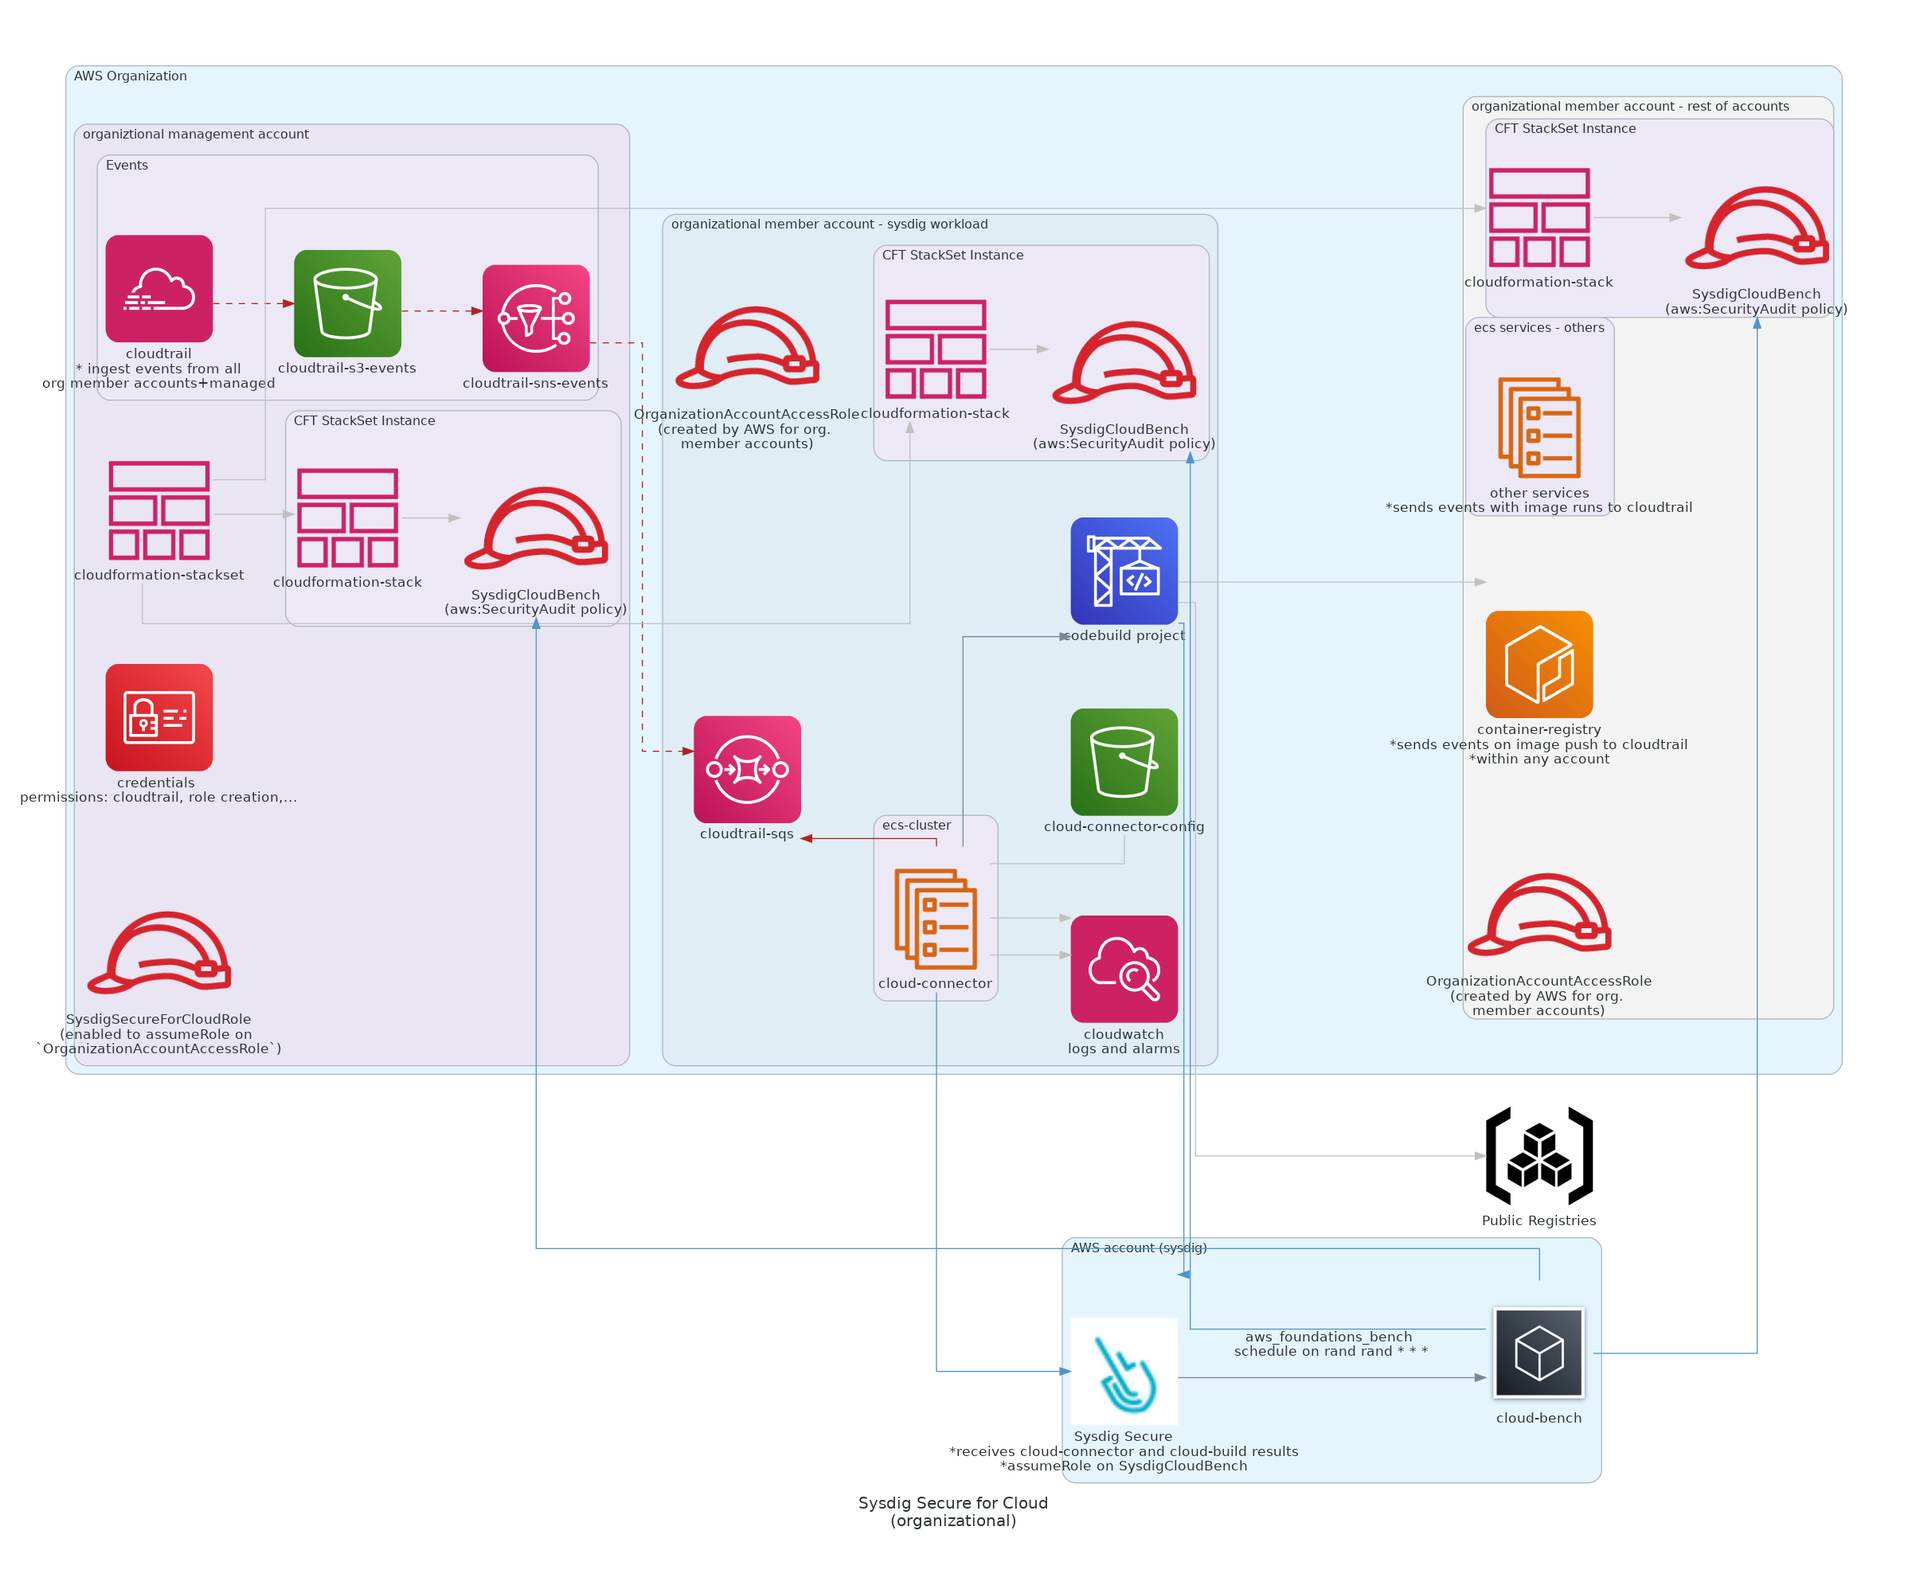
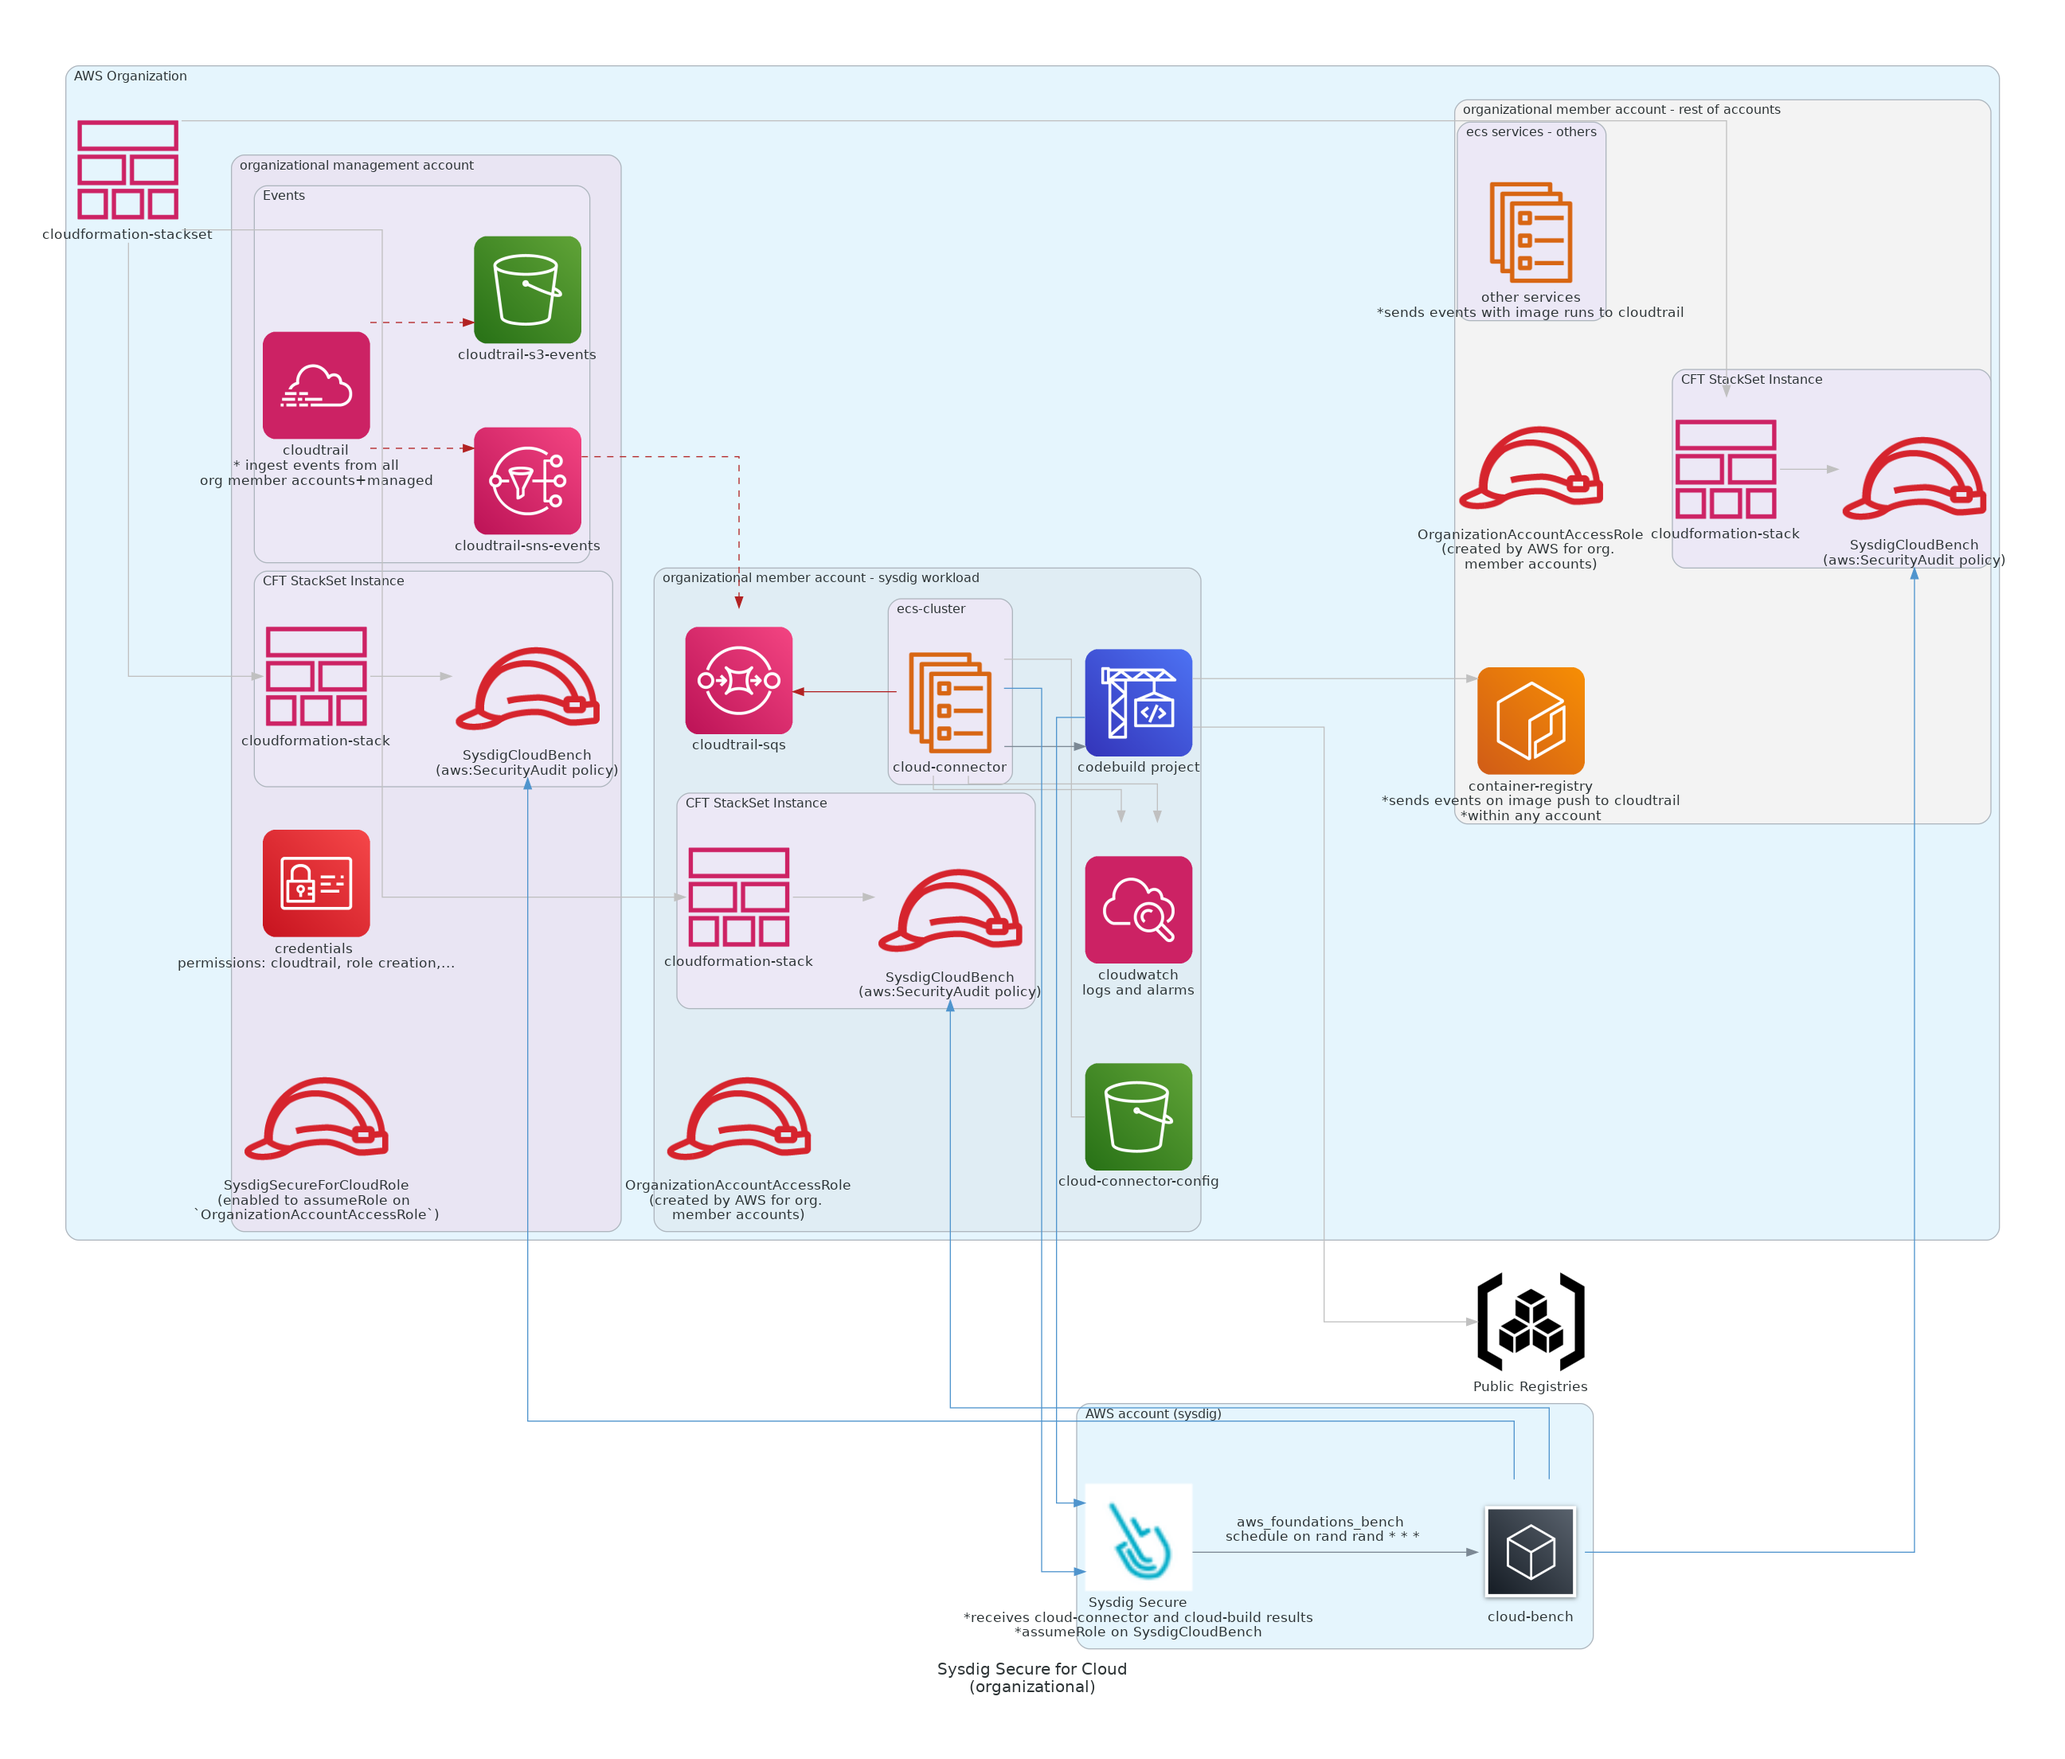
docs: diag min changes

diff --git a/examples/organizational/diagram-org.py b/examples/organizational/diagram-org.py
@@ -33,13 +33,13 @@ color_sysdig="#F3F3F3"
 
 
 
-with Diagram("Sysdig Secure for Cloud\n(organizational)", graph_attr=diagram_attr, filename="diagram-org", show=True):
+with Diagram("Sysdig Secure for Cloud\n(organizational)", graph_attr=diagram_attr, filename="diagram-org", show=True, direction="LR"):
 
     public_registries = Custom("Public Registries","../../resources/diag-registry-icon.png")
 
     with Cluster("AWS Organization"):
 
-        with Cluster("organiztional management account", graph_attr={"bgcolor":color_managed}):
+        with Cluster("organizational management account", graph_attr={"bgcolor":color_managed}):
 
             with Cluster("Events"):
                 cloudtrail              = Cloudtrail("cloudtrail\n* ingest events from all\norg member accounts+managed", shape="plaintext")
@@ -50,7 +50,8 @@ with Diagram("Sysdig Secure for Cloud\n(organizational)", graph_attr=diagram_att
             secure_for_cloud_role   = IAMRole("SysdigSecureForCloudRole\n\(enabled to assumeRole on \n`OrganizationAccountAccessRole`)", **role_attr)
 
 
-            cloudtrail >> Edge(color=color_event, style="dashed") >> cloudtrail_s3 >> Edge(color=color_event, style="dashed") >> sns
+            cloudtrail >> Edge(color=color_event, style="dashed") >> cloudtrail_s3
+            cloudtrail >> Edge(color=color_event, style="dashed") >> sns
             # cloudtrail_s3 >> Edge(style="invis") >> cft_stack_set
 
             with Cluster("CFT StackSet Instance"):
@@ -58,27 +59,7 @@ with Diagram("Sysdig Secure for Cloud\n(organizational)", graph_attr=diagram_att
                 cloud_bench_role_3 = IAMRole("SysdigCloudBench\n(aws:SecurityAudit policy)", **role_attr)
                 cft_stack_3 >> Edge(color=color_creates) >> cloud_bench_role_3
 
-            cft_stack_set  = CloudformationStack("cloudformation-stackset")
-            cft_stack_set >> Edge(style="invis") >> cft_stack_3
-            management_credentials >> Edge(style="invis") >> cft_stack_3
-
-
-        with Cluster("organizational member account - rest of accounts", graph_attr={"bgcolor":color_sysdig, "margin":"0,50px"}):
-            ecr = ECR("container-registry\n*sends events on image push to cloudtrail\n*within any account")
-
-            with Cluster("ecs services - others"):
-                ecs_services = ElasticContainerServiceService("other services\n*sends events with image runs to cloudtrail")
-
-
-            with Cluster("CFT StackSet Instance"):
-                cft_stack = CloudformationStack("cloudformation-stack")
-                cloud_bench_role = IAMRole("SysdigCloudBench\n(aws:SecurityAudit policy)", **role_attr)
-                cft_stack >> Edge(color=color_creates) >> cloud_bench_role
-
-            org_member_role_1 = IAMRole("OrganizationAccountAccessRole\n(created by AWS for org. \nmember accounts)", **role_attr)
-
-            #ecr >> Edge(style="invis") >> ecs_services
-
+#             management_credentials >> Edge(style="invis") >> secure_for_cloud_role
 
         with Cluster("organizational member account - sysdig workload", graph_attr={"bgcolor":color_others}):
 
@@ -102,10 +83,8 @@ with Diagram("Sysdig Secure for Cloud\n(organizational)", graph_attr=diagram_att
             cloud_connector >> Edge(color=color_non_important) >> cloudwatch
             cloud_connector  >>  Edge(color=color_non_important) >> cloudwatch
             cloud_connector >> codebuild
-            codebuild >> Edge(color=color_non_important) >>  ecr
-            codebuild >> Edge(color=color_non_important) >>  public_registries
 
-            org_member_role_2 >> Edge(style="invis") >> cft_stack_2
+            #org_member_role_2 >> Edge(style="invis") >> cft_stack_2
 
 
         sns >> Edge(color=color_event, style="dashed") >> sqs
@@ -115,10 +94,29 @@ with Diagram("Sysdig Secure for Cloud\n(organizational)", graph_attr=diagram_att
 #        (cloudtrail_s3 << Edge(color=color_event) <<
 
 
+
+        with Cluster("organizational member account - rest of accounts", graph_attr={"bgcolor":color_sysdig, "margin":"0,50px"}):
+            ecr = ECR("container-registry\n*sends events on image push to cloudtrail\n*within any account")
+
+            with Cluster("ecs services - others"):
+                ecs_services = ElasticContainerServiceService("other services\n*sends events with image runs to cloudtrail")
+
+
+            with Cluster("CFT StackSet Instance"):
+                cft_stack = CloudformationStack("cloudformation-stack")
+                cloud_bench_role = IAMRole("SysdigCloudBench\n(aws:SecurityAudit policy)", **role_attr)
+                cft_stack >> Edge(color=color_creates) >> cloud_bench_role
+
+            org_member_role_1 = IAMRole("OrganizationAccountAccessRole\n(created by AWS for org. \nmember accounts)", **role_attr)
+            org_member_role_1 >> Edge(style="invis") >> cft_stack
+
+        cft_stack_set  = CloudformationStack("cloudformation-stackset")
         cft_stack_set >> Edge(color=color_creates) >> cft_stack
         cft_stack_set >> Edge(color=color_creates) >> cft_stack_2
         cft_stack_set >> Edge(color=color_creates) >> cft_stack_3
 
+        codebuild >> Edge(color=color_non_important) >>  ecr
+        codebuild >> Edge(color=color_non_important) >>  public_registries
 
 
     with Cluster("AWS account (sysdig)"):
